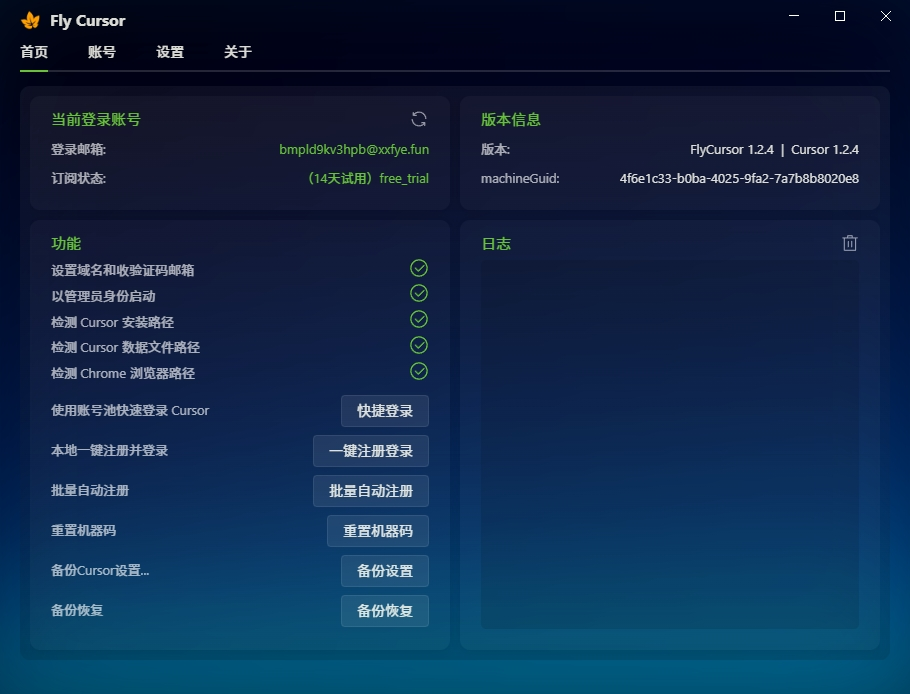
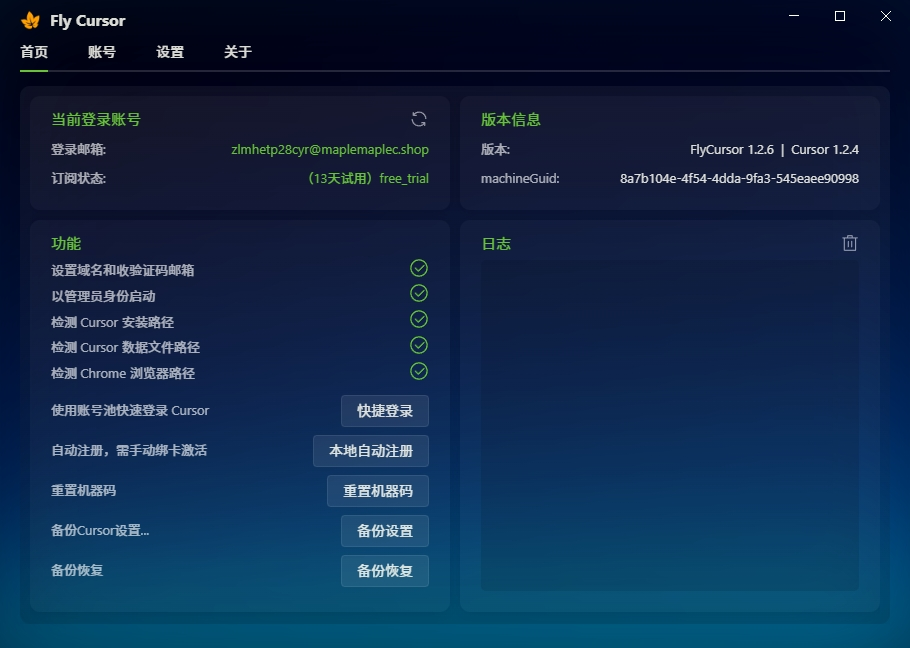
docs: update README

diff --git a/README.md b/README.md
@@ -1,5 +1,5 @@
 
-## 暂时失效，原因：Cursor新账户要求绑定支付方式才能获取试用，等后续研究是否有绕过的方法。 2025-7-25
+# ### 注意：Cursor 要求新账户绑定支付方式才能激活试用   2025-7-25
 
 ---
 
@@ -16,7 +16,7 @@
 
 ## 核心功能
 * **一键更换账号**：免费账号池，秒级换号，稳定维持 Cursor Pro 15天试用
-* **批量自动注册**：自动注册无限Cursor账号，自动通过人机验证
+* **本地自动注册**：自动注册Cursor新账号，自动通过人机验证（需要手动绑定支付卡激活试用）
 
 
 ---
